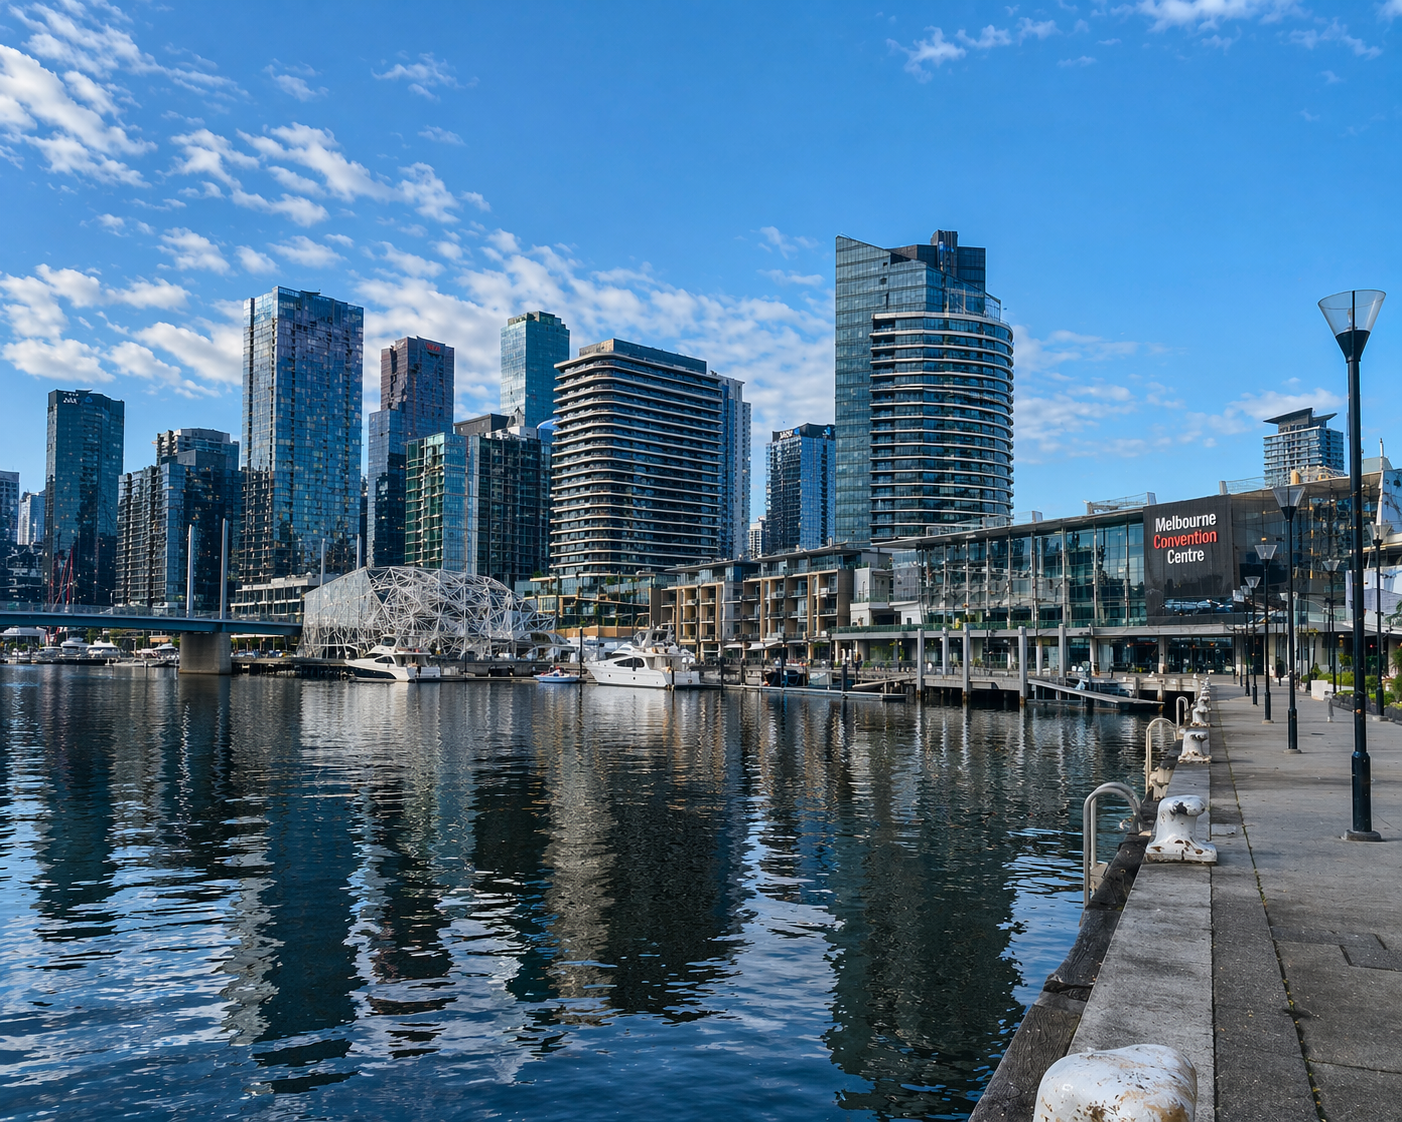
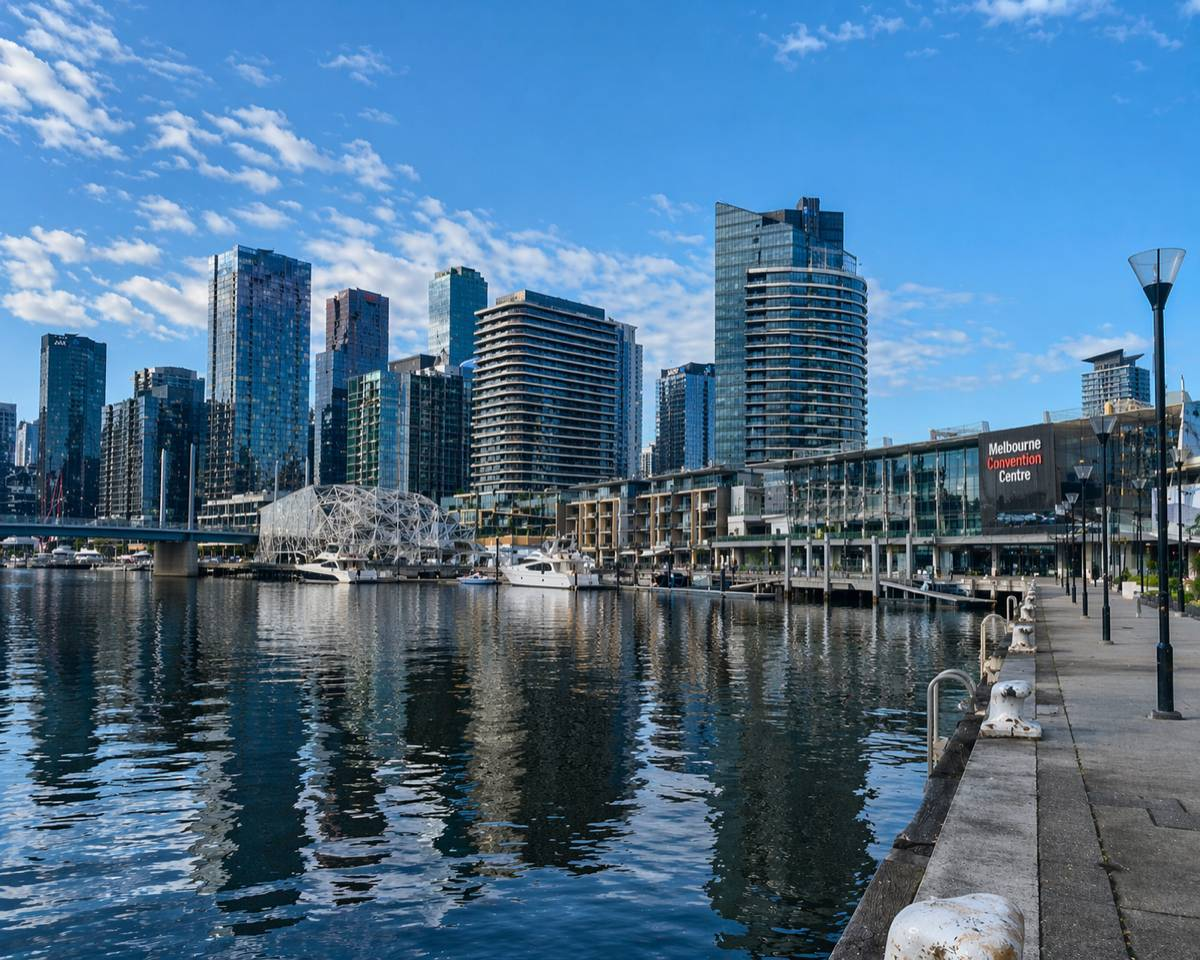
SEO, analytics, performance, and security improvements
- Add generate_lead GA4 event tracking to booking and employer enquiry forms with cta_source param
- Compress home-assets images (wtc-hero: 2.7MB→185KB, office-meeting: 1.6MB→64KB)
- Fix robots.txt syntax for Lighthouse SEO compliance
- Add CSP, COOP security headers and image cache TTL config to next.config.ts
- Fix wrangler deploy script and add env vars to wrangler.toml to prevent overwrites
- Add generate_lead and cta_source URL param tracking to Google Sheets submissions

diff --git a/red-bridge-ui/src/components/booking/BookingExperience.tsx b/red-bridge-ui/src/components/booking/BookingExperience.tsx
@@ -2,6 +2,7 @@
 
 import { useEffect, useMemo, useState } from "react";
 import { useLocale, useTranslations } from "next-intl";
+import { AnalyticsEvent, trackEvent } from "@/lib/analytics";
 import type { ConsultationStage, ConsultationTypeOption } from "./booking-data";
 import { BookingForm } from "./BookingForm";
 import { BookingInfoPanel } from "./BookingInfoPanel";
@@ -99,6 +100,11 @@ function parseStageFromWindow(): ConsultationStage | null {
   return stage === "1" || stage === "2" || stage === "3" || stage === "4"
     ? stage
     : null;
+}
+
+function parseSrcFromWindow(): string | null {
+  if (typeof window === "undefined") return null;
+  return new URLSearchParams(window.location.search).get("src");
 }
 
 function buildCalendarDays(
@@ -261,6 +267,7 @@ async function submitBooking(
   slotLabel: string,
   subjectPrefix: string,
   heading: string,
+  src: string | null,
 ) {
   const sheetUrl = process.env.NEXT_PUBLIC_BOOKING_SHEET_URL;
   if (!sheetUrl) throw new Error("Missing sheet URL");
@@ -275,6 +282,7 @@ async function submitBooking(
       slotLabel,
       subjectPrefix,
       heading,
+      ...(src ? { ctaSrc: src } : {}),
     }),
   });
 }
@@ -308,6 +316,7 @@ export function BookingExperience() {
   const [stageFilter, setStageFilter] = useState<ConsultationStage | null>(
     null,
   );
+  const [ctaSrc, setCtaSrc] = useState<string | null>(null);
   const [selectedConsultationLabel, setSelectedConsultationLabel] = useState(
     () => consultationTypes[0]?.label ?? "",
   );
@@ -318,6 +327,7 @@ export function BookingExperience() {
   useEffect(() => {
     const timer = window.setTimeout(() => {
       setStageFilter(parseStageFromWindow());
+      setCtaSrc(parseSrcFromWindow());
     }, 0);
 
     return () => window.clearTimeout(timer);
@@ -516,10 +526,15 @@ export function BookingExperience() {
         selectedSlotLabel,
         mailT("subjectPrefix"),
         mailT("heading"),
+        ctaSrc,
       );
       setSubmitted(true);
       setStepError(null);
       localStorage.removeItem(STORAGE_KEY);
+      trackEvent(AnalyticsEvent.GENERATE_LEAD, {
+        form_type: "booking",
+        ...(ctaSrc ? { cta_source: ctaSrc } : {}),
+      });
     } catch {
       setStepError(messageT("submitError"));
     }

diff --git a/red-bridge-ui/next.config.ts b/red-bridge-ui/next.config.ts
@@ -3,20 +3,55 @@ import createNextIntlPlugin from "next-intl/plugin";
 
 const withNextIntl = createNextIntlPlugin();
 
+const csp = [
+  "default-src 'self'",
+  "script-src 'self' 'unsafe-inline' 'unsafe-eval' https://www.googletagmanager.com https://www.google-analytics.com https://connect.facebook.net https://static.cloudflareinsights.com https://signals.birch.events",
+  "style-src 'self' 'unsafe-inline' https://fonts.googleapis.com",
+  "font-src 'self' https://fonts.gstatic.com",
+  "img-src 'self' data: https://www.facebook.com https://www.google-analytics.com",
+  "connect-src 'self' https://www.google-analytics.com https://analytics.google.com https://stats.g.doubleclick.net https://connect.facebook.net https://www.facebook.com https://signals.birch.events https://script.google.com",
+  "frame-src 'self'",
+  "object-src 'none'",
+  "base-uri 'self'",
+].join("; ");
+
 const securityHeaders = [
   { key: "X-Frame-Options", value: "SAMEORIGIN" },
   { key: "X-Content-Type-Options", value: "nosniff" },
   { key: "Referrer-Policy", value: "strict-origin-when-cross-origin" },
   { key: "Permissions-Policy", value: "camera=(), microphone=(), geolocation=()" },
   { key: "X-DNS-Prefetch-Control", value: "on" },
+  { key: "Cross-Origin-Opener-Policy", value: "same-origin-allow-popups" },
+  { key: "Content-Security-Policy", value: csp },
 ];
 
 const nextConfig: NextConfig = {
+  images: {
+    minimumCacheTTL: 86400,
+  },
   async headers() {
     return [
       {
         source: "/(.*)",
         headers: securityHeaders,
+      },
+      {
+        source: "/_next/image(.*)",
+        headers: [
+          { key: "Cache-Control", value: "public, max-age=86400, stale-while-revalidate=604800" },
+        ],
+      },
+      {
+        source: "/_next/static/(.*)",
+        headers: [
+          { key: "Cache-Control", value: "public, max-age=31536000, immutable" },
+        ],
+      },
+      {
+        source: "/home-assets/(.*)",
+        headers: [
+          { key: "Cache-Control", value: "public, max-age=86400, stale-while-revalidate=604800" },
+        ],
       },
     ];
   },

diff --git a/red-bridge-ui/src/components/for-employers/table/EmployerEnquirySection.tsx b/red-bridge-ui/src/components/for-employers/table/EmployerEnquirySection.tsx
@@ -3,6 +3,7 @@
 import { zodResolver } from "@hookform/resolvers/zod";
 import { useTranslations } from "next-intl";
 import { useEffect, useRef } from "react";
+import { AnalyticsEvent, trackEvent } from "@/lib/analytics";
 import { useForm } from "react-hook-form";
 import { Button } from "@/components/ui/button";
 import { Form } from "@/components/ui/form";
@@ -49,10 +50,20 @@ export default function EmployerEnquirySection() {
     const sheetUrl = process.env.NEXT_PUBLIC_BOOKING_SHEET_URL;
     if (!sheetUrl) throw new Error("Missing sheet URL");
 
+    const src = new URLSearchParams(window.location.search).get("src");
+
     await fetch(sheetUrl, {
       method: "POST",
       mode: "no-cors",
-      body: JSON.stringify({ ...data, type: "EmployerEnquiry" }),
+      body: JSON.stringify({
+        ...data,
+        type: "EmployerEnquiry",
+        ...(src ? { ctaSrc: src } : {}),
+      }),
+    });
+    trackEvent(AnalyticsEvent.GENERATE_LEAD, {
+      form_type: "employer_enquiry",
+      ...(src ? { cta_source: src } : {}),
     });
   };
 

diff --git a/red-bridge-ui/src/lib/analytics.ts b/red-bridge-ui/src/lib/analytics.ts
@@ -1,5 +1,6 @@
 export const AnalyticsEvent = {
   FAQ_QUESTION_OPENED: "faq_question_opened",
+  GENERATE_LEAD: "generate_lead",
 } as const;
 
 export function trackEvent(
